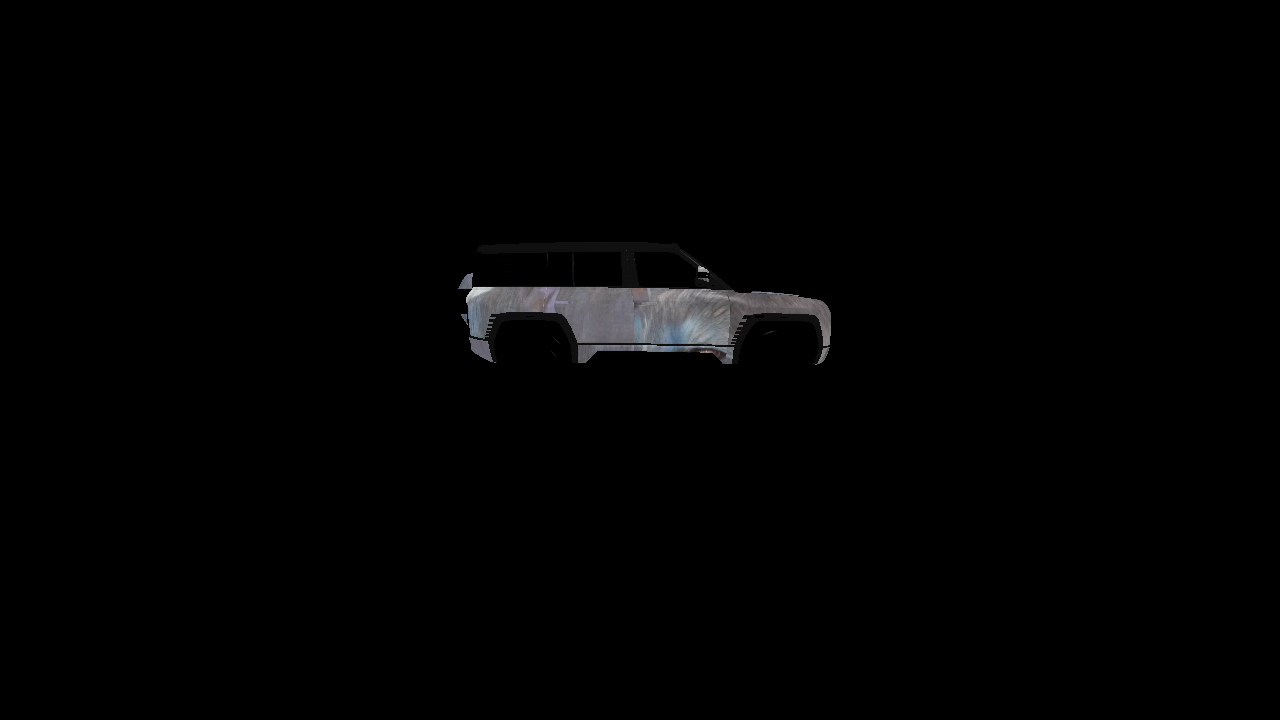
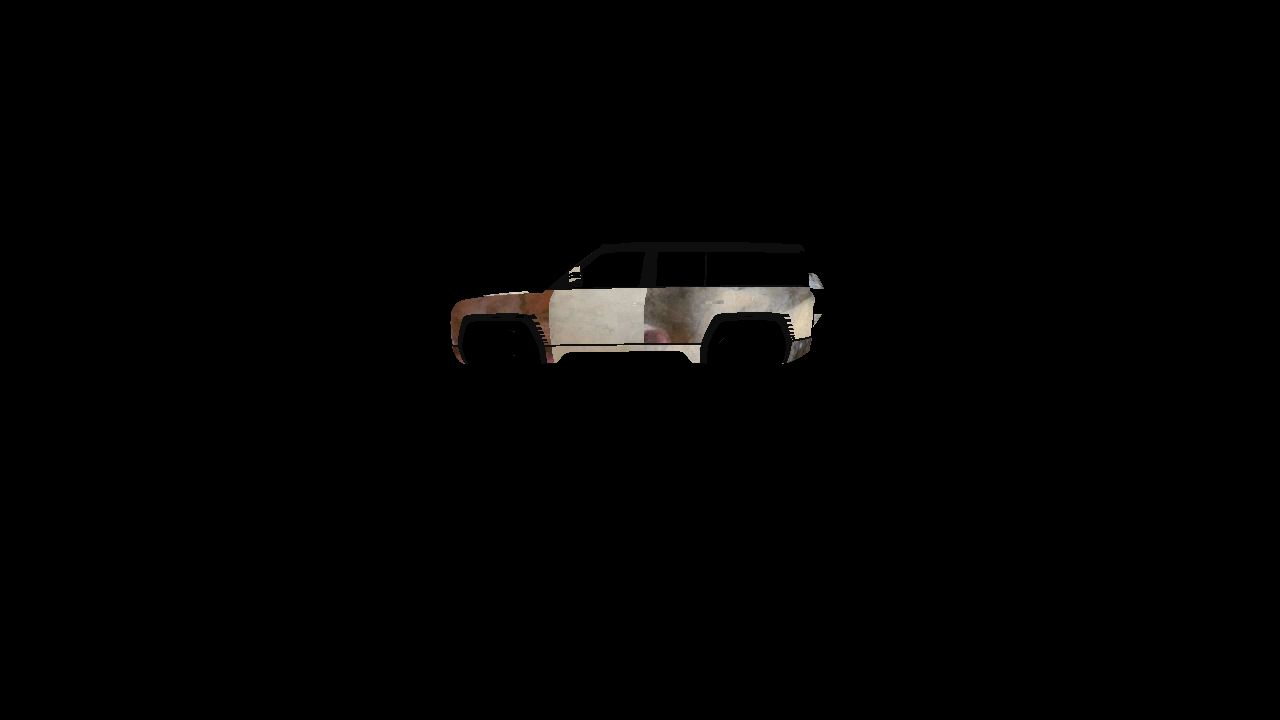
200260319 v0

Changed region(s): [[0.3438, 0.3667, 0.6562, 0.5194]]

diff --git a/adv_attack/attack_class.py b/adv_attack/attack_class.py
@@ -3410,7 +3410,7 @@ class MM3DAdv_ATTACK:
         self.optim.val_loader= val_loader
         mesh_model_t=load_obj_model(self.exp_params["mesh_model_path"], 
                                 optim_device)
-        self.optim.mesh_model = mesh_model_t.extend(self.exp_params["batch_size"])
+        self.optim.mesh_model =mesh_model_t
 
 
     def optim_step(self):
@@ -3451,7 +3451,7 @@ class MM3DAdv_ATTACK:
                 ## 直接render
 
                 origin_com_tensor_rendered = load_parma_and_render_main(object_mesh=self.optim.mesh_model,
-                                                                backgroud=backgroud_images,
+                                                                background=backgroud_images,
                                                                 path_camera_pose=cameras_pose_path,
                                                                 image_size=image_size_render,
                                                                 device=self.optim.optim_device,
@@ -3460,13 +3460,15 @@ class MM3DAdv_ATTACK:
                                                                 faces_per_pixel=1)
                 ## 纹理贴图渲染
 
-                new_mesh_rendered_adv_com=apply_texture_to_mesh(object_mesh=self.optim.mesh_model ,
-                                               texture=adv_texture_resized,
-                                               device=self.optim.optim_device)
 
+                new_mesh_rendered_adv_com=update_meshes_texture(
+                        original_meshes_list=self.optim.mesh_model,
+                        tex=adv_texture_resized,           # 形状为 [1, C, H, W] 的纹理张量
+                        target_index_list=[1,3],
+                        device=self.optim.optim_device)
 
                 adv_com_tensor_rendered = load_parma_and_render_main(object_mesh=new_mesh_rendered_adv_com,
-                                                                backgroud=backgroud_images,
+                                                                background=backgroud_images,
                                                                 path_camera_pose=cameras_pose_path,
                                                                 image_size=image_size_render,
                                                                 device=self.optim.optim_device,

diff --git a/adv_attack/pt3D_tools.py b/adv_attack/pt3D_tools.py
@@ -678,8 +678,7 @@ def load_parma_and_render_main(
     device,
     fov=110,
     blur_radius=0.0,
-    faces_per_pixel=1,
-    white_threshold=0.999
+    faces_per_pixel=1
 ):
     """
     支持多材质 mesh 渲染
